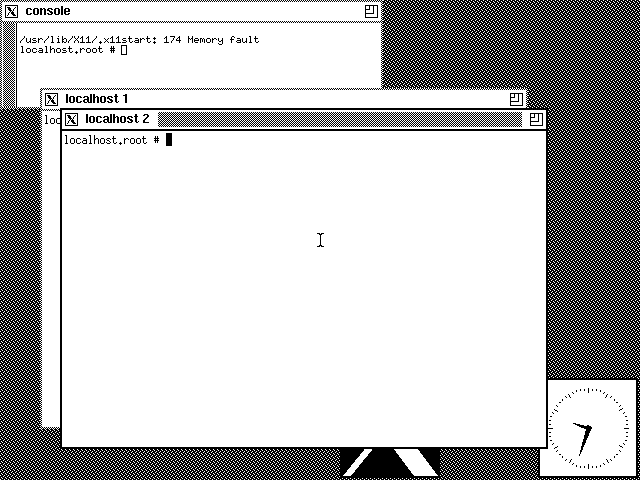
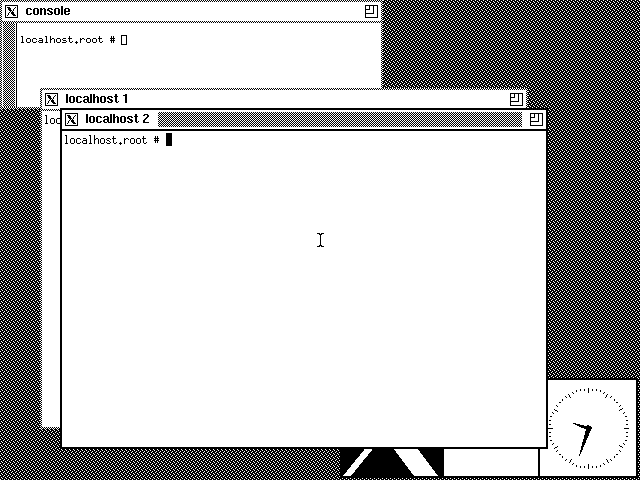
cpu: abort write on extension-word fetch fault instead of storing via the sentinel EA
When an instruction's extension word lies in a page whose descriptor is
invalid (A/UX demand paging), the fetch takes a deferred bus error and
returns the all-ones sentinel. The write_ea_* helpers carried on
executing with that garbage: CLR.L $4(A0) whose displacement word
crossed into a non-resident page computed EA = A0 + 0xFFFF (-1) and
wrote four zero bytes at A0-1. The Format $B retry then re-executed
the instruction correctly, so the stray write was invisible — except
for the corruption it left behind.

Real 68030 hardware bus-errors on the prefetch and never runs the data
cycle. movem_to_register already checks g_bus_error_pending after its
fetch; write_ea_8/16/32 did not.

Visible symptom: every IIfx A/UX 3.0.1 X11 session printed
"/usr/lib/X11/.x11start: 174 Memory fault" — xload (and xlogo) died
during startup. xload's CLR.L $4(A0) at PC $24FFE has its displacement
word at $25000, the first bytes of a not-yet-resident page; the stray
write at A0-1 clipped an Xt parse-context pointer from $417DB4 to
$0000B4, and xload later chased the near-null pointer into a SIGSEGV
inside Xt's EqEvent. Deterministic per binary layout (xclock's
identical code never straddles a page edge), impossible under Mac OS
(no paging), which is why no Mac-side test ever caught it. Root-caused
with a host-gdb hardware watchpoint on the corrupted heap slot.

- cpu_internal.h: in write_ea_8/16/32, split calculate_ea from the
[…]

Changed region(s): [[0.0312, 0.0625, 0.4062, 0.125], [0.6875, 0.9375, 0.8438, 1.0]]

diff --git a/tests/unit/suites/cpu_fetch_fault/test.c b/tests/unit/suites/cpu_fetch_fault/test.c
@@ -1,0 +1,207 @@
+// Extension-word fetch fault: the instruction must abort before its data
+// cycle.
+//
+// When an instruction's extension word lies in a page whose descriptor is
+// invalid (A/UX demand paging), the fetch takes a deferred bus error and
+// returns the all-ones sentinel. Real 68030 hardware aborts the instruction
+// on the prefetch bus error and re-executes it after the Format $B retry;
+// it never runs the data cycle. The emulator's write_ea_* helpers used to
+// carry on with the sentinel as the displacement — CLR.L $4(A0) whose
+// displacement word crossed into a non-resident page computed EA = A0 +
+// 0xFFFF(-1) and wrote four zero bytes at A0-1, corrupting the byte before
+// the intended target. Under A/UX 3.0.1 this destroyed an Xt heap pointer
+// in xload/xlogo during every X11 session start ("/usr/lib/X11/.x11start:
+// 174 Memory fault").
+//
+// The tests build a minimal two-level PMMU table: a code page whose last
+// word is the CLR opcode, an INVALID page right after it (where the
+// displacement word would be fetched from), and a mapped data page holding
+// a sentinel pattern around A0. After executing the instruction, no byte
+// around A0 may have changed and the bus error must have vectored.
+
+#include "cpu.h"
+#include "cpu_internal.h"
+#include "harness.h"
+#include "memory.h"
+#include "mmu.h"
+#include "test_assert.h"
+
+#include <stdint.h>
+#include <string.h>
+
+// Logical/physical layout (identity-mapped except the hole):
+//   page 0x0000: vector table (mapped)
+//   page 0x3000: code page (mapped);  opcode at 0x3FFE
+//   page 0x4000: INVALID (the displacement word would be at 0x4000)
+//   page 0x5000: data + stack page (mapped); A0 = 0x5100, SSP = 0x5F00
+#define CODE_LAST_WORD 0x3FFEu
+#define DATA_A0        0x5100u
+#define STACK_TOP      0x5F00u
+#define HANDLER_ADDR   0x3800u
+
+#define LEVEL_A_BASE 0x10000u
+#define LEVEL_B_BASE 0x11000u
+
+static void store_be32(uint8_t *p, uint32_t val) {
+    p[0] = (uint8_t)(val >> 24);
+    p[1] = (uint8_t)(val >> 16);
+    p[2] = (uint8_t)(val >> 8);
+    p[3] = (uint8_t)(val);
+}
+
+static void store_be16(uint8_t *p, uint16_t val) {
+    p[0] = (uint8_t)(val >> 8);
+    p[1] = (uint8_t)(val);
+}
+
+// Run one 68030 instruction (plus any pending exception dispatch).
+static void run_one(cpu_t *cpu) {
+    extern void cpu_run_68030(cpu_t * cpu, uint32_t * instructions);
+    uint32_t one = 1;
+    cpu_run_68030(cpu, &one);
+}
+
+// Build the two-level table and switch the MMU on. Maps pages 0x0000,
+// 0x3000 and 0x5000 identity; leaves 0x4000 invalid. Returns the MMU.
+static mmu_state_t *setup_mmu(cpu_t *cpu, memory_map_t *mem) {
+    uint8_t *ram = ram_native_pointer(mem, 0);
+
+    mmu_state_t *mmu = mmu_init(ram, 0x400000, 0x8000000, NULL, 0, 0x40000000, 0x50000000);
+    if (!mmu)
+        return NULL;
+
+    // TC: enable, PS=4KB, IS=0, TIA=8, TIB=12 (8+12+12 = 32)
+    uint32_t tc = (1u << 31) | (4u << 20) | (0u << 16) | (8u << 12) | (12u << 8);
+
+    // Level-A entry 0 -> level-B table
+    store_be32(ram + LEVEL_A_BASE, LEVEL_B_BASE | DESC_DT_TABLE4);
+    // Level-B: identity page descriptors for pages 0, 3 and 5; page 4 invalid
+    memset(ram + LEVEL_B_BASE, 0, 16 * 4);
+    store_be32(ram + LEVEL_B_BASE + 0 * 4, 0x0000 | DESC_DT_PAGE);
+    store_be32(ram + LEVEL_B_BASE + 3 * 4, 0x3000 | DESC_DT_PAGE);
+    store_be32(ram + LEVEL_B_BASE + 5 * 4, 0x5000 | DESC_DT_PAGE);
+
+    mmu->tc = tc;
+    mmu->crp = ((uint64_t)DESC_DT_TABLE4 << 32) | LEVEL_A_BASE;
+    mmu->enabled = true;
+    g_mmu = mmu;
+    cpu->mmu = mmu;
+    mmu_invalidate_tlb(mmu); // drop the identity SoA entries
+
+    // Bus error vector (vector 2, VBR=0) -> handler stub in the code page
+    store_be32(ram + 8, HANDLER_ADDR);
+    store_be16(ram + HANDLER_ADDR, 0x4E71); // NOP
+
+    return mmu;
+}
+
+static void teardown_mmu(cpu_t *cpu, mmu_state_t *mmu) {
+    cpu->mmu = NULL;
+    g_mmu = NULL; // mmu_delete clears it too, but be explicit
+    mmu_delete(mmu);
+}
+
+// Common body: place `opcode` as the last word of the code page so its
+// extension word falls in the invalid page, seed a sentinel around A0,
+// execute, and assert nothing around A0 changed.
+static void check_no_stray_write(cpu_t *cpu, memory_map_t *mem, uint16_t opcode) {
+    uint8_t *ram = ram_native_pointer(mem, 0);
+    mmu_state_t *mmu = setup_mmu(cpu, mem);
+    ASSERT_TRUE(mmu != NULL);
+
+    // Sentinel pattern around A0 (A0-8 .. A0+11)
+    for (int i = -8; i < 12; i++)
+        ram[DATA_A0 + i] = (uint8_t)(0xC5 + i);
+
+    store_be16(ram + CODE_LAST_WORD, opcode);
+
+    cpu->pc = CODE_LAST_WORD;
+    cpu->a[0] = DATA_A0;
+    cpu->a[7] = STACK_TOP;
+    cpu->supervisor = 1;
+
+    run_one(cpu); // faulting instruction
+    run_one(cpu); // give a deferred bus error a boundary to vector at
+
+    // The data cycle must not have run: every byte around A0 unchanged.
+    // (The old bug wrote 4 zero bytes at A0-1 for d16 = 0xFFFF.)
+    for (int i = -8; i < 12; i++)
+        ASSERT_EQ_INT(ram[DATA_A0 + i], (uint8_t)(0xC5 + i));
+
+    // The fetch fault must have vectored to the bus-error handler
+    // (Format $B frame pushed on the supervisor stack, PC at/past the stub).
+    ASSERT_TRUE(cpu->pc >= HANDLER_ADDR && cpu->pc <= HANDLER_ADDR + 4);
+    ASSERT_TRUE(cpu->halted == 0);
+
+    teardown_mmu(cpu, mmu);
+}
+
+TEST(clr_l_d16_ext_word_fetch_fault_aborts_write) {
+    // CLR.L $4(A0) = 0x42A8 0x0004 — displacement in the invalid page
+    cpu_t *cpu = test_get_cpu(test_get_active_context());
+    cpu->cpu_model = CPU_MODEL_68030;
+    check_no_stray_write(cpu, test_get_memory(test_get_active_context()), 0x42A8);
+}
+
+TEST(clr_w_d16_ext_word_fetch_fault_aborts_write) {
+    // CLR.W $4(A0) = 0x4268 0x0004
+    cpu_t *cpu = test_get_cpu(test_get_active_context());
+    cpu->cpu_model = CPU_MODEL_68030;
+    check_no_stray_write(cpu, test_get_memory(test_get_active_context()), 0x4268);
+}
+
+TEST(clr_b_d16_ext_word_fetch_fault_aborts_write) {
+    // CLR.B $4(A0) = 0x4228 0x0004
+    cpu_t *cpu = test_get_cpu(test_get_active_context());
+    cpu->cpu_model = CPU_MODEL_68030;
+    check_no_stray_write(cpu, test_get_memory(test_get_active_context()), 0x4228);
+}
+
+TEST(clr_l_d16_valid_ext_word_still_writes) {
+    // Control: same instruction fully inside the mapped code page must
+    // write its four zero bytes at A0+4 exactly.
+    cpu_t *cpu = test_get_cpu(test_get_active_context());
+    memory_map_t *mem = test_get_memory(test_get_active_context());
+    cpu->cpu_model = CPU_MODEL_68030;
+
+    uint8_t *ram = ram_native_pointer(mem, 0);
+    mmu_state_t *mmu = setup_mmu(cpu, mem);
+    ASSERT_TRUE(mmu != NULL);
+
+    for (int i = -8; i < 12; i++)
+        ram[DATA_A0 + i] = (uint8_t)(0xC5 + i);
+
+    store_be16(ram + 0x3F00, 0x42A8); // CLR.L $4(A0), fully in-page
+    store_be16(ram + 0x3F02, 0x0004);
+
+    cpu->pc = 0x3F00;
+    cpu->a[0] = DATA_A0;
+    cpu->a[7] = STACK_TOP;
+    cpu->supervisor = 1;
+
+    run_one(cpu);
+
+    for (int i = -8; i < 12; i++) {
+        uint8_t expect = (i >= 4 && i < 8) ? 0 : (uint8_t)(0xC5 + i);
+        ASSERT_EQ_INT(ram[DATA_A0 + i], expect);
+    }
+    ASSERT_EQ_INT((int)cpu->pc, 0x3F04);
+
+    teardown_mmu(cpu, mmu);
+}
+
+int main(void) {
+    test_context_t *ctx = test_harness_init();
+    if (!ctx) {
+        fprintf(stderr, "Failed to initialize test harness\n");
+        return 1;
+    }
+
+    RUN(clr_l_d16_ext_word_fetch_fault_aborts_write);
+    RUN(clr_w_d16_ext_word_fetch_fault_aborts_write);
+    RUN(clr_b_d16_ext_word_fetch_fault_aborts_write);
+    RUN(clr_l_d16_valid_ext_word_still_writes);
+
+    test_harness_destroy(ctx);
+    return 0;
+}

diff --git a/src/core/cpu/cpu_internal.h b/src/core/cpu/cpu_internal.h
@@ -398,7 +398,16 @@ static inline __attribute__((always_inline)) void write_ea_8(cpu_t *restrict cpu
         cpu->a[reg] = (cpu->a[reg] & 0xFFFFFF00) | value;
     else {
         uint32_t saved_an = (mode == 3 || mode == 4) ? cpu->a[reg] : 0;
-        memory_write_uint8(calculate_ea(cpu, 1, mode, reg, true), value);
+        uint32_t ea = calculate_ea(cpu, 1, mode, reg, true);
+        // Extension-word fetch fault: abort before the data cycle. Real
+        // hardware bus-errors on the prefetch and never runs the write;
+        // the Format $B retry re-executes the whole instruction.
+        if (__builtin_expect(g_bus_error_pending, 0)) {
+            if (mode == 3 || mode == 4)
+                cpu->a[reg] = saved_an;
+            return;
+        }
+        memory_write_uint8(ea, value);
         if (__builtin_expect(g_bus_error_pending, 0) && (mode == 3 || mode == 4))
             cpu->a[reg] = saved_an;
     }
@@ -413,7 +422,14 @@ static inline __attribute__((always_inline)) void write_ea_16(cpu_t *restrict cp
         cpu->a[reg] = (cpu->a[reg] & 0xFFFF0000) | value;
     else {
         uint32_t saved_an = (mode == 3 || mode == 4) ? cpu->a[reg] : 0;
-        memory_write_uint16(calculate_ea(cpu, 2, mode, reg, true), value);
+        uint32_t ea = calculate_ea(cpu, 2, mode, reg, true);
+        // Extension-word fetch fault: abort before the data cycle (see write_ea_8).
+        if (__builtin_expect(g_bus_error_pending, 0)) {
+            if (mode == 3 || mode == 4)
+                cpu->a[reg] = saved_an;
+            return;
+        }
+        memory_write_uint16(ea, value);
         if (__builtin_expect(g_bus_error_pending, 0) && (mode == 3 || mode == 4))
             cpu->a[reg] = saved_an;
     }
@@ -428,7 +444,14 @@ static inline __attribute__((always_inline)) void write_ea_32(cpu_t *restrict cp
         cpu->a[reg] = value;
     else {
         uint32_t saved_an = (mode == 3 || mode == 4) ? cpu->a[reg] : 0;
-        memory_write_uint32(calculate_ea(cpu, 4, mode, reg, true), value);
+        uint32_t ea = calculate_ea(cpu, 4, mode, reg, true);
+        // Extension-word fetch fault: abort before the data cycle (see write_ea_8).
+        if (__builtin_expect(g_bus_error_pending, 0)) {
+            if (mode == 3 || mode == 4)
+                cpu->a[reg] = saved_an;
+            return;
+        }
+        memory_write_uint32(ea, value);
         if (__builtin_expect(g_bus_error_pending, 0) && (mode == 3 || mode == 4))
             cpu->a[reg] = saved_an;
     }